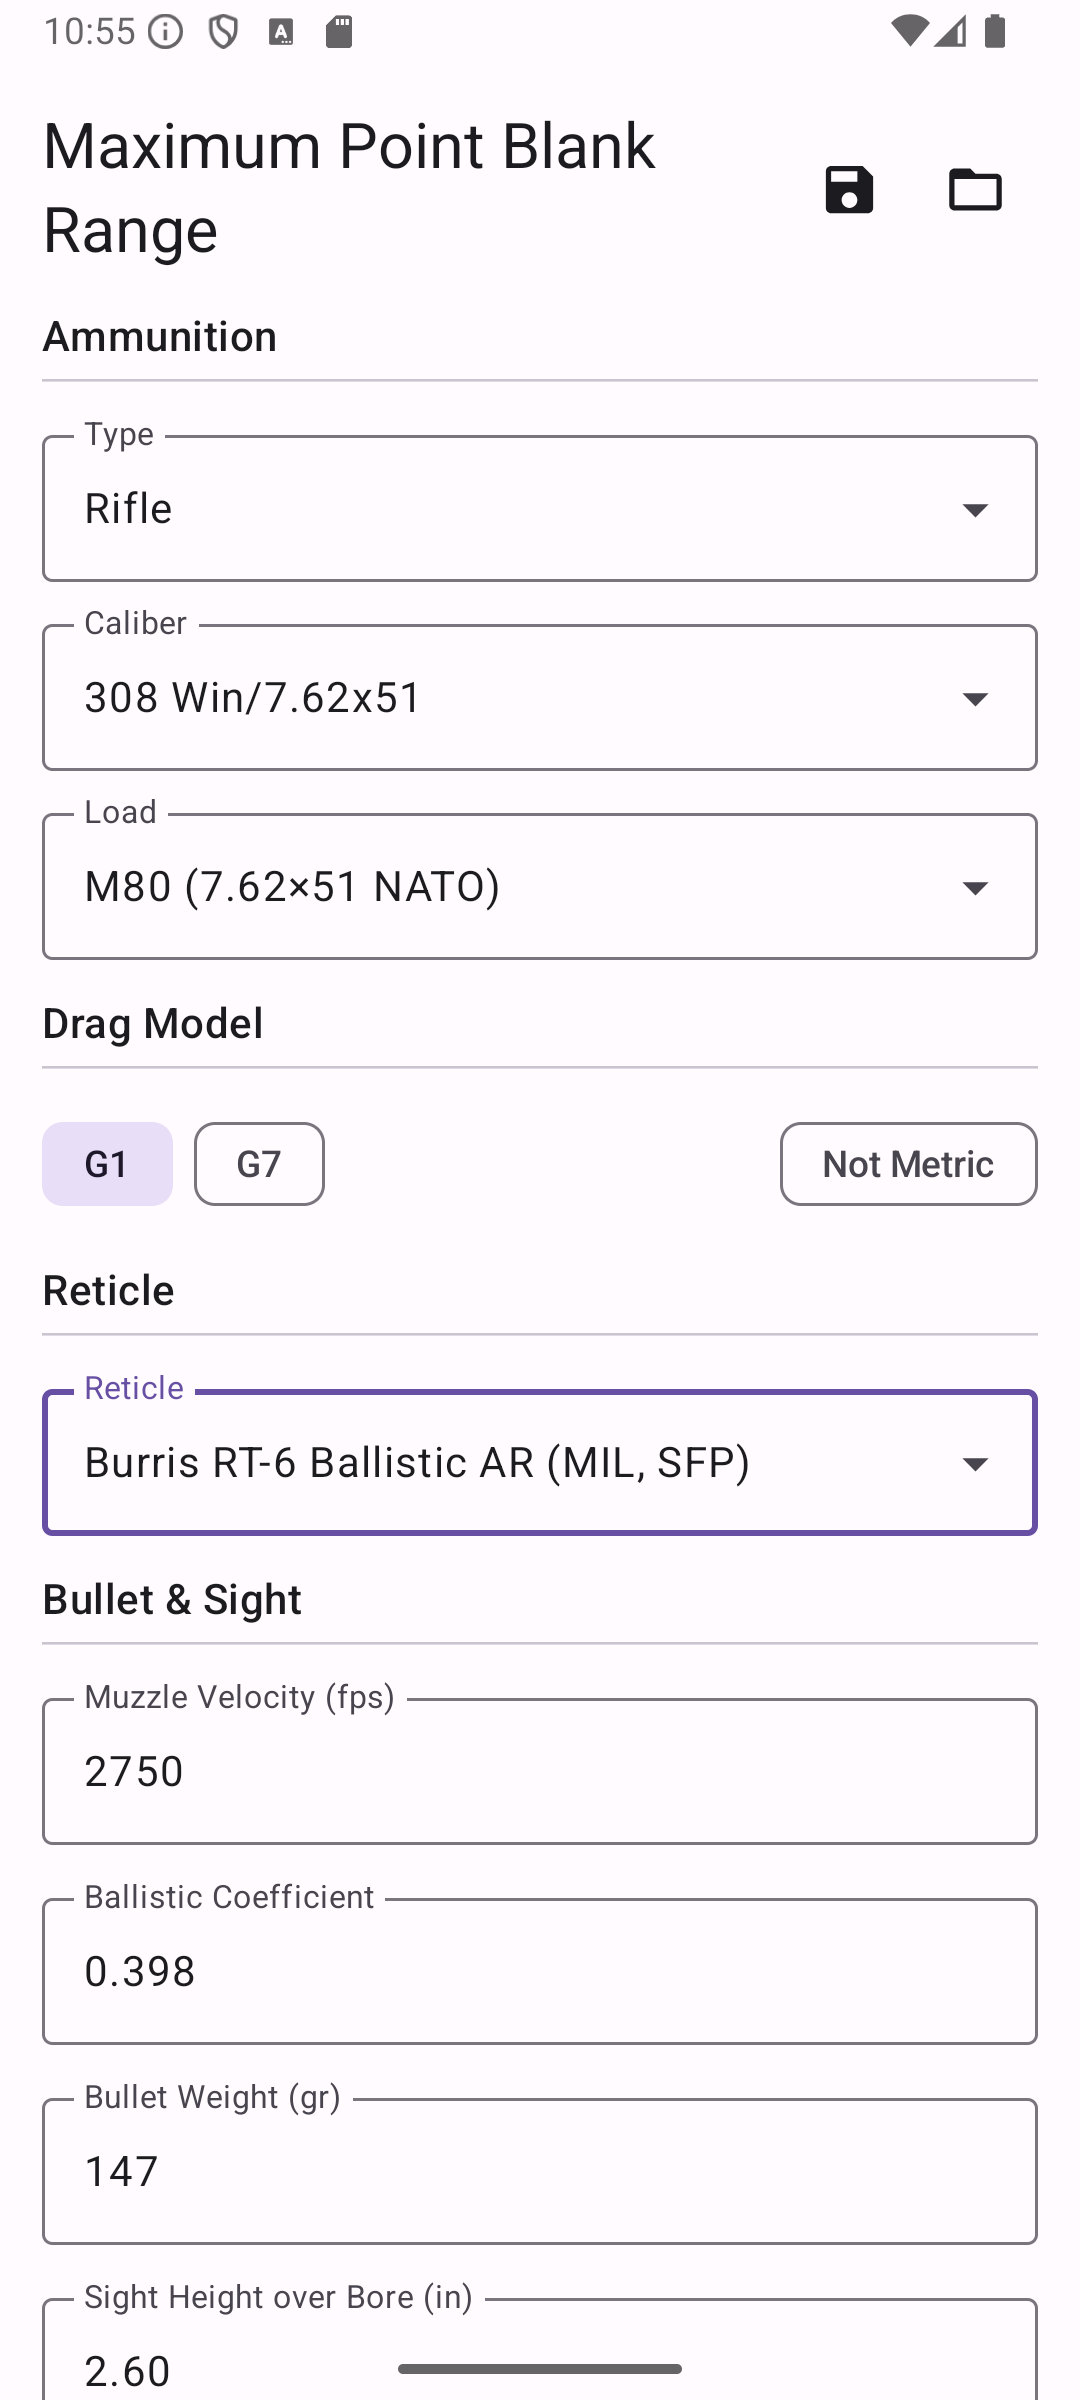
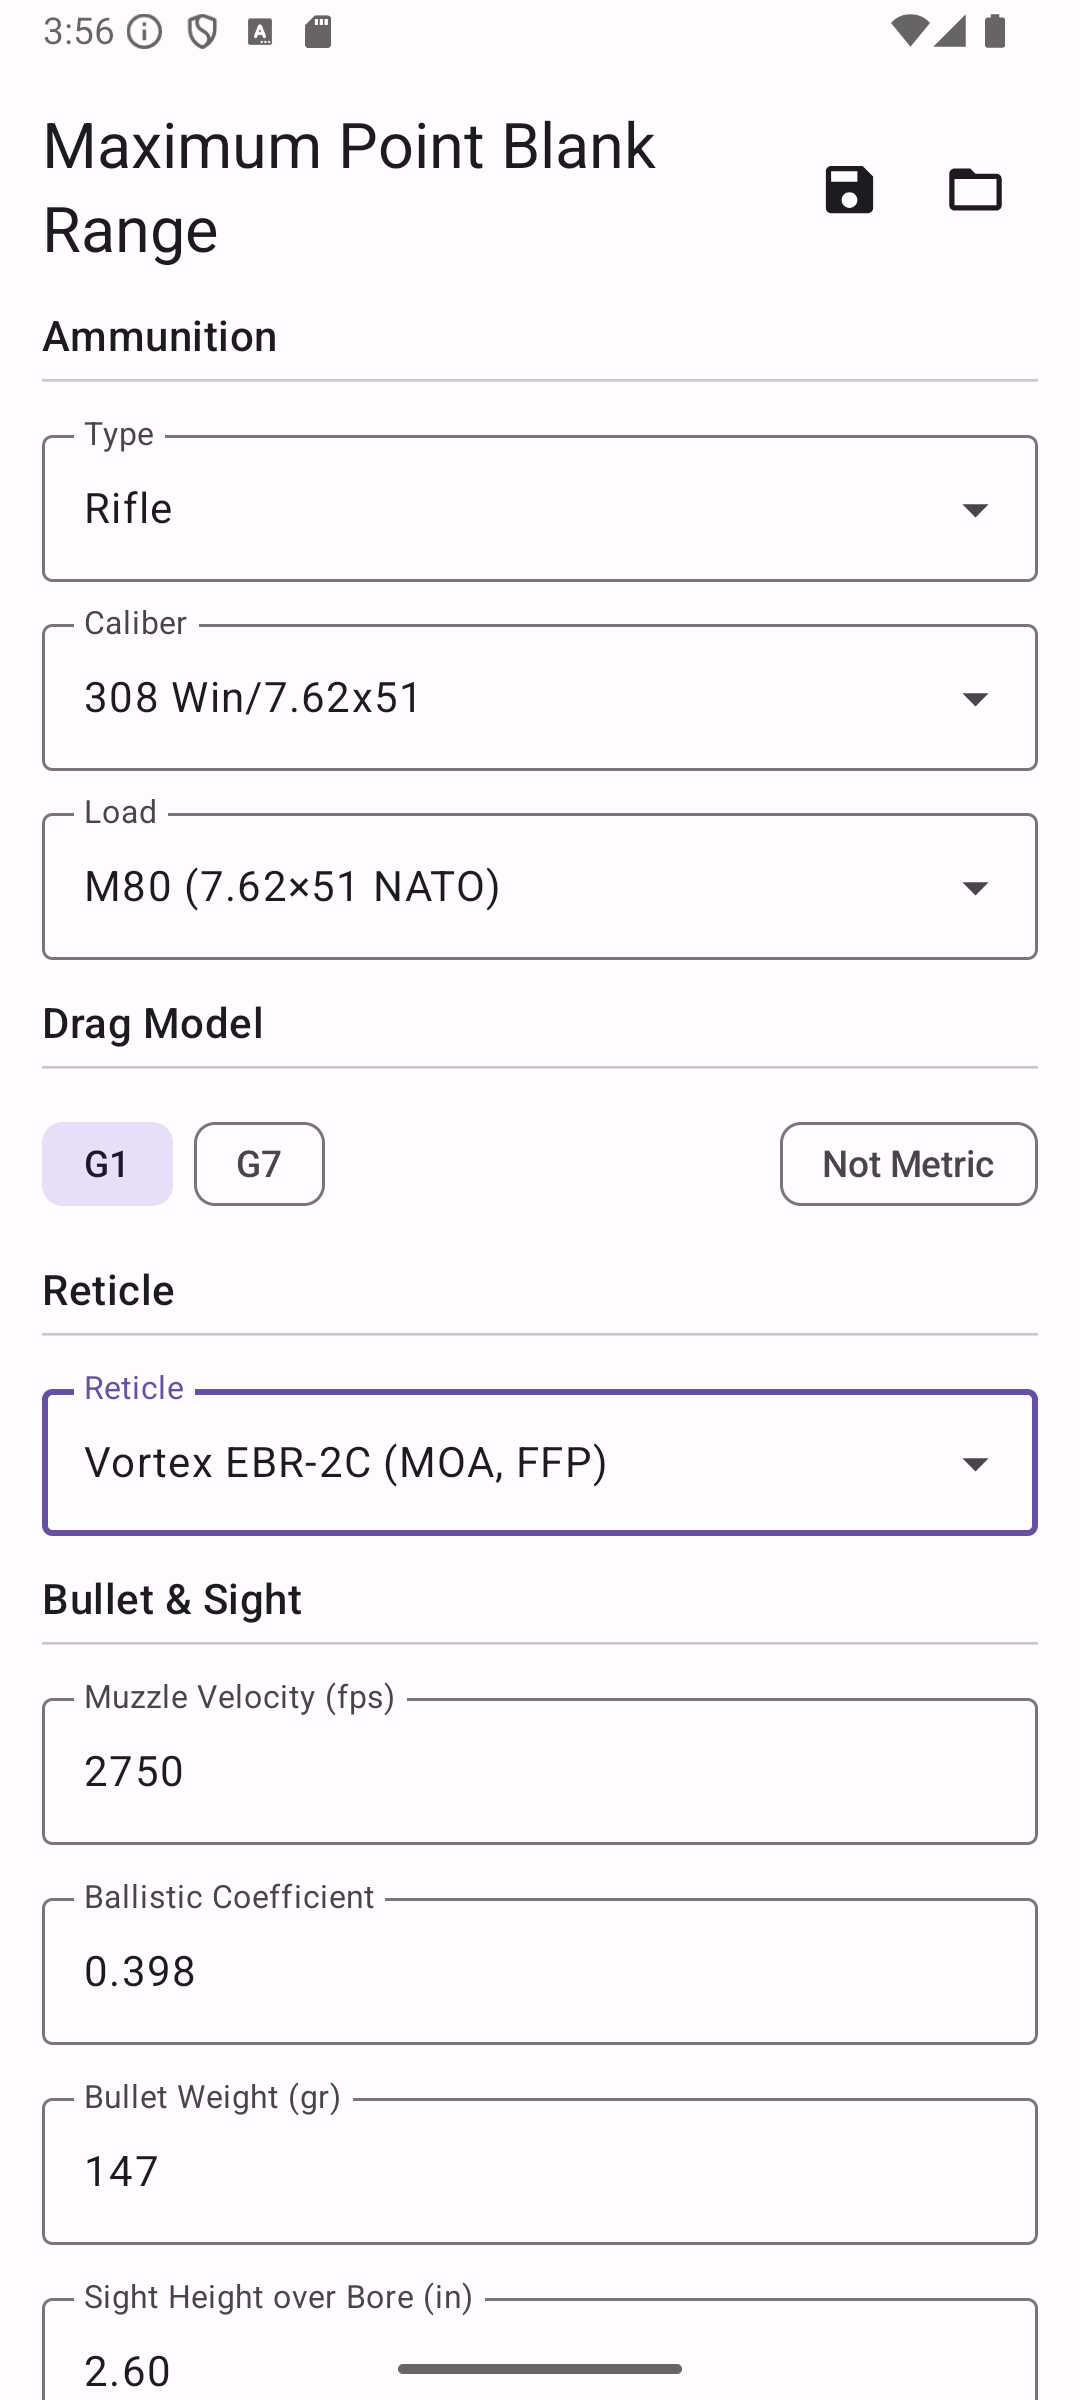
Refresh README screenshots for Vortex EBR-2C reticles
Swap the reticle-selection and results screenshots to show the new
Vortex EBR-2C MOA preset selected, and regenerate the exported DOPE
chart to match its on-device rendering.

Claude-Session: https://claude.ai/code/session_01UqqZUyjPrMBnaQe3cFJ2kM

Changed region(s): [[0.0611, 0.5938, 0.5806, 0.625], [0.0611, 0.0, 0.3361, 0.0312], [0.6111, 0.5938, 0.7028, 0.625]]

diff --git a/README.md b/README.md
@@ -22,13 +22,13 @@ the reticle's extent.
 <td align="center"><img src="screenshots/Screenshot_20260829-102400.MPBR%20Calculator.png" width="190"><br><em>Reticle preset dropdown by manufacturer</em></td>
 </tr>
 <tr>
-<td align="center"><img src="screenshots/Screenshot_20260829-102401.MPBR%20Calculator.png" width="190"><br><em>Inputs with Burris RT-6 Ballistic AR selected</em></td>
+<td align="center"><img src="screenshots/Screenshot_20260829-102401.MPBR%20Calculator.png" width="190"><br><em>Inputs with Vortex EBR-2C selected</em></td>
 <td align="center"><img src="screenshots/Screenshot_20260829-102402.MPBR%20Calculator.png" width="190"><br><em>Atmosphere and trajectory table settings</em></td>
 <td align="center"><img src="screenshots/Screenshot_20260829-102500.MPBR%20Calculator.png" width="190"><br><em>Results: MPBR summary + reticle illustration</em></td>
 </tr>
 <tr>
 <td align="center"><img src="screenshots/Screenshot_20260829-102600.MPBR%20Calculator.png" width="190"><br><em>Trajectory table and Save DOPE Chart</em></td>
-<td align="center"><img src="screenshots/DOPE_M80__7_62_51_NATO__20260829_225500.jpg" width="190"><br><em>Exported DOPE chart JPEG</em></td>
+<td align="center"><img src="screenshots/DOPE_M80__7_62_51_NATO__20260830_155756.jpg" width="190"><br><em>Exported DOPE chart JPEG</em></td>
 <td></td>
 </tr>
 </table>
